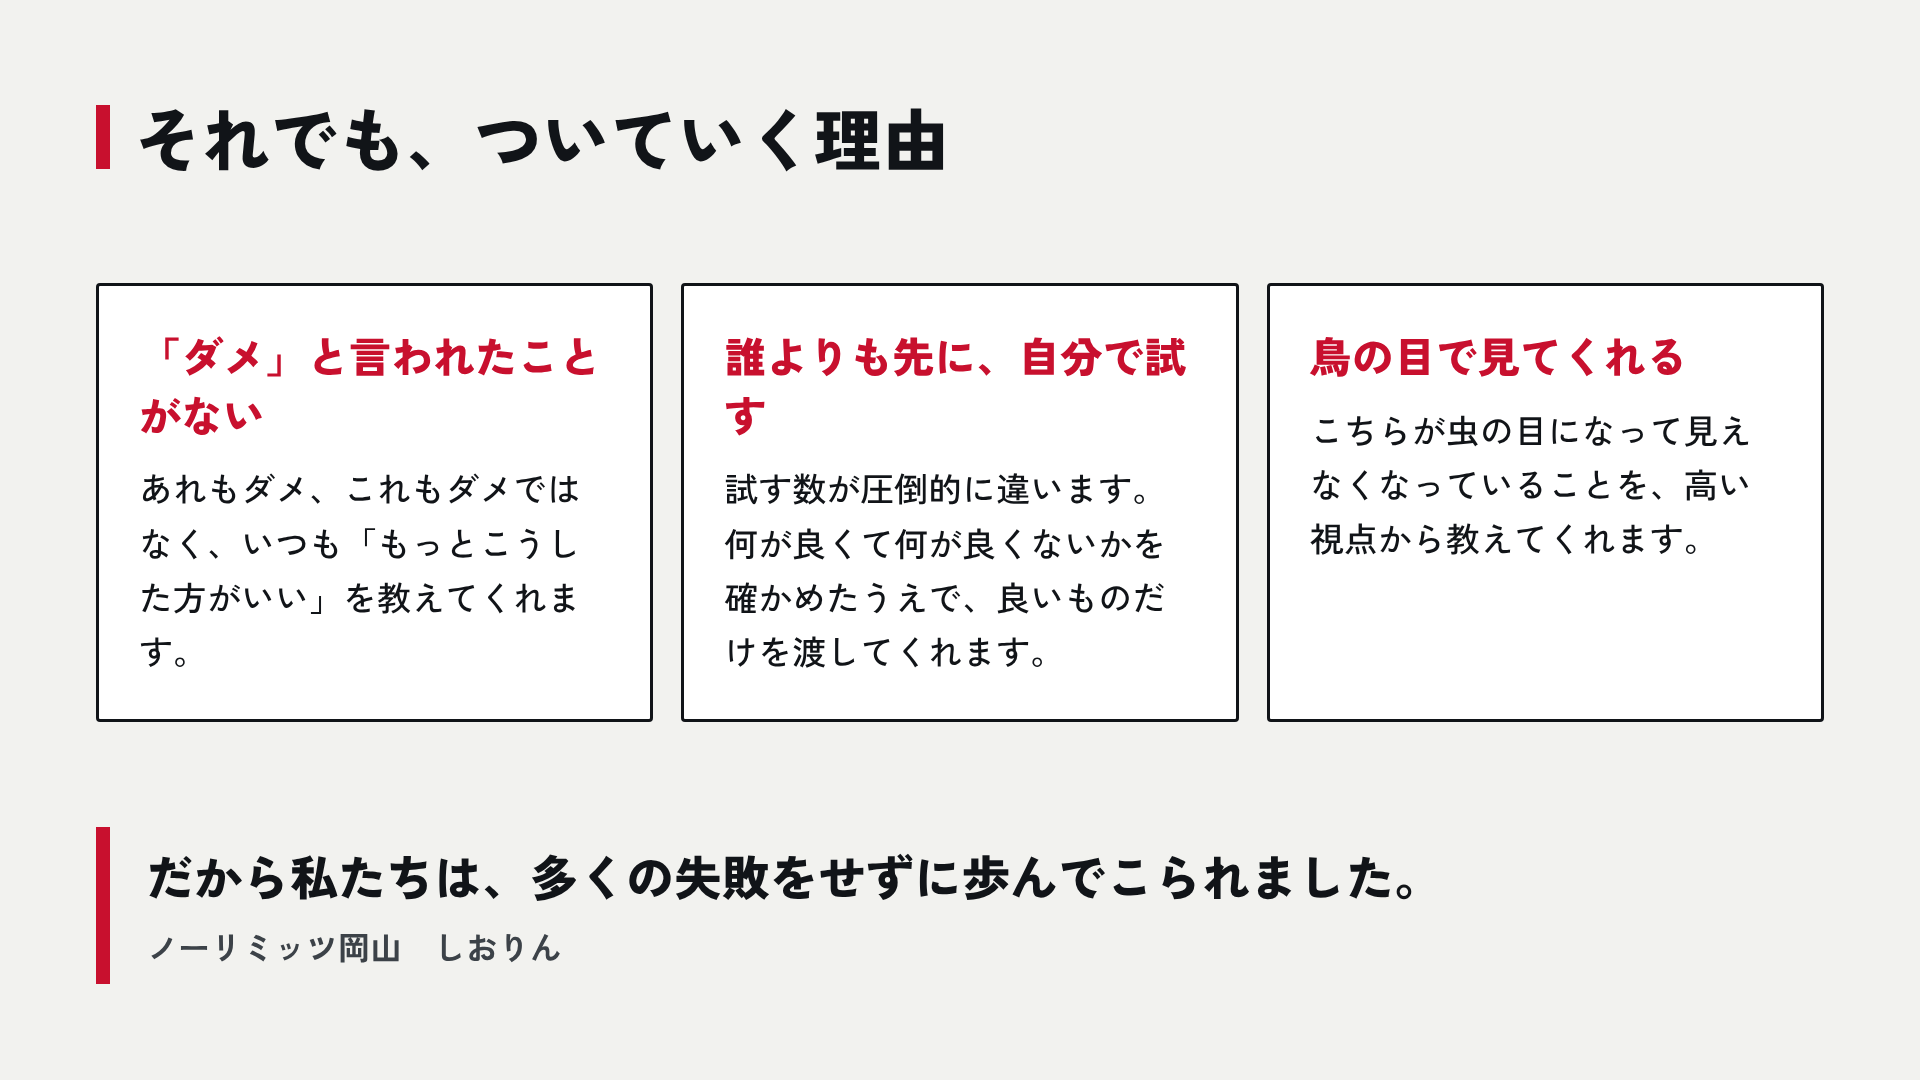
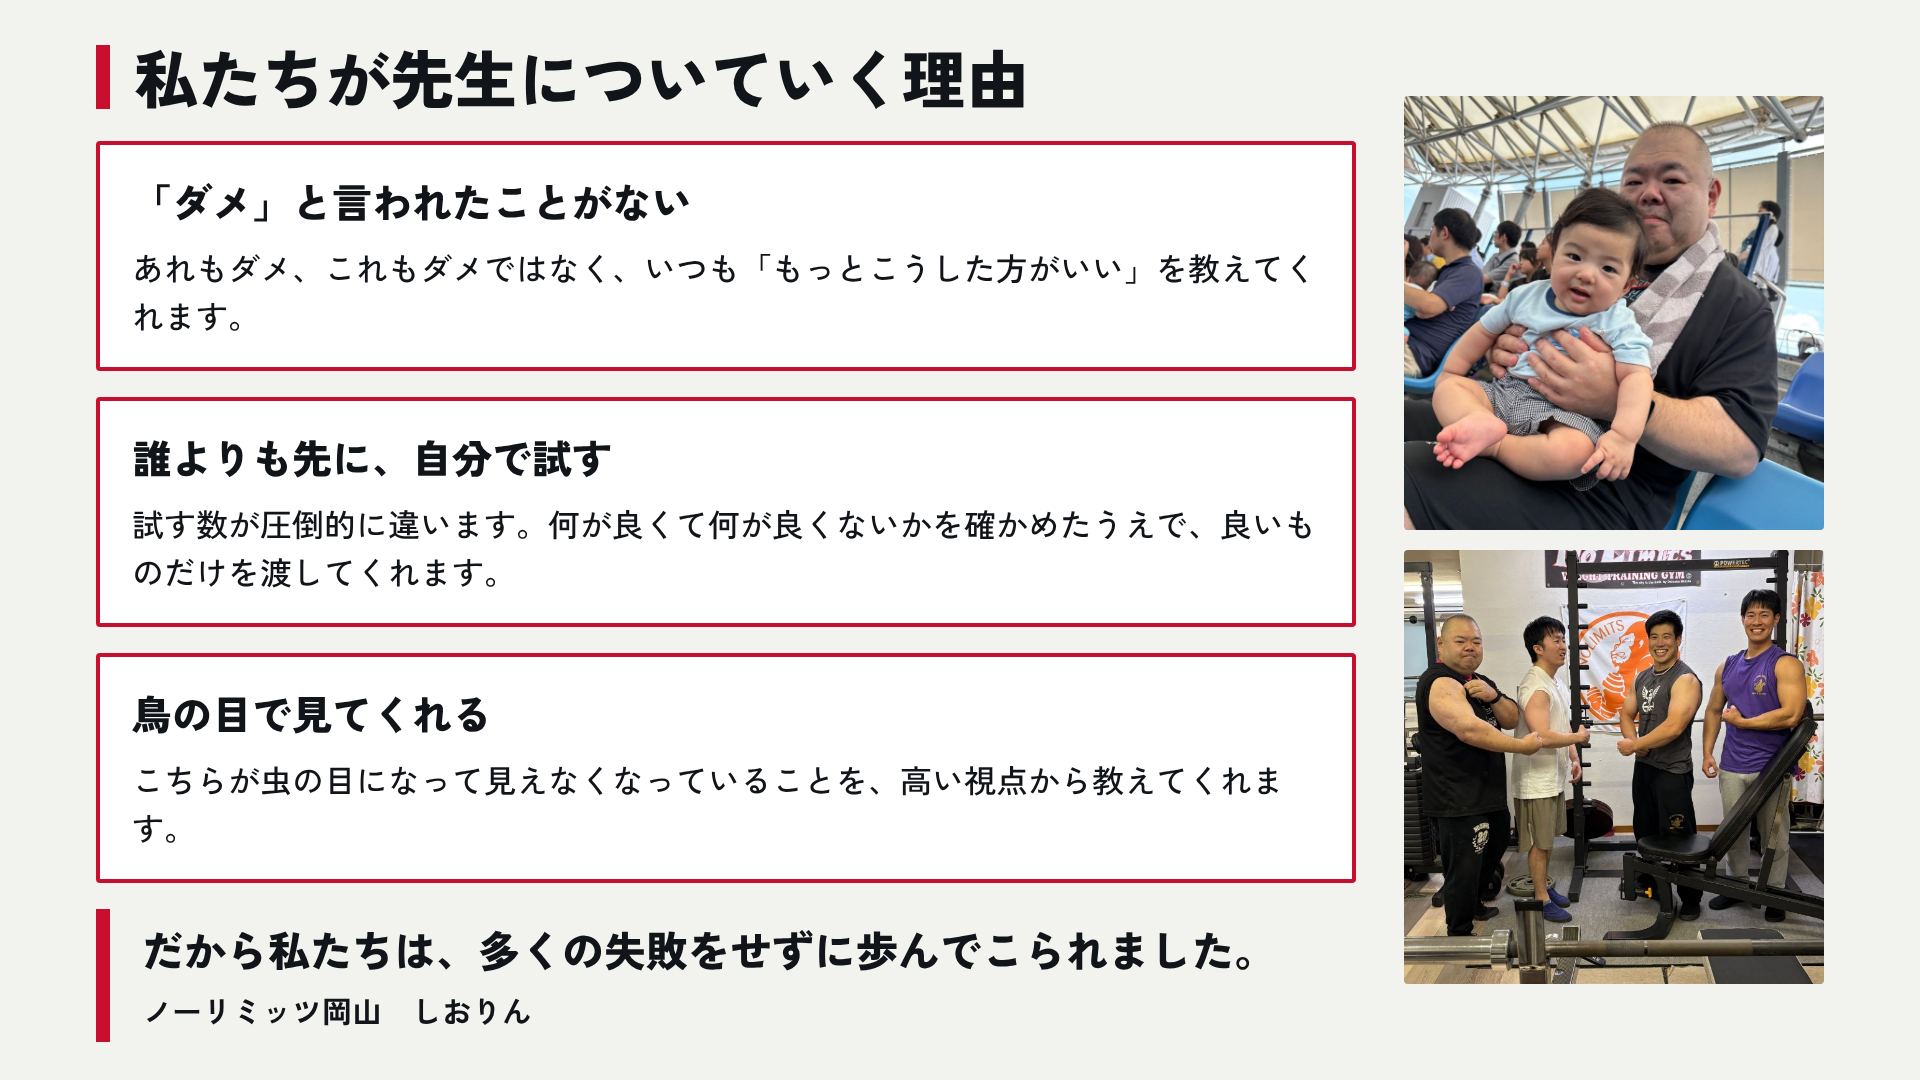
Put the real record on the instructor slide, and drop reversed-out red
The instructor slide now carries the four achievements from the gym's
own owner page instead of a vague caption about his arm, and ends by
saying the record is not why we follow him, which the next slide
answers. That slide is retitled to name who is speaking.

White text on solid red was as hard to read as the black背景 was, so
every red panel is now white with a red rule and black text. Red is
left as an outline and a heading colour only.

Owner's name corrected to 佐藤亮太.

Claude-Session: https://claude.ai/code/session_0169r95ZiBATNM4wyux34bk9

diff --git a/print/midote-png/README.md b/print/midote-png/README.md
@@ -5,8 +5,8 @@
 | ファイル | 内容 |
 | --- | --- |
 | `01-cover.png` | タイトル・日程・講師 |
-| `02-teacher.png` | 講師紹介（写真3点） |
-| `03-why.png` | 師事する理由（しおりんの言葉） |
+| `02-teacher.png` | 講師紹介・実績4点 |
+| `03-why.png` | 私たちが先生についていく理由 |
 | `04-content.png` | セミナーで扱うこと |
 | `05-price.png` | 料金・参加者特典 |
 | `06-apply.png` | 開催概要・申し込み |
@@ -18,6 +18,7 @@
 - 白地（`#FFFFFF` / `#F2F2EF`）に黒文字（`#111418`）。黒地は使わない
 - 補助文字も `#3C4248` までに留め、薄いグレーは使わない
 - 強調は赤 `#C8102E`、数字は濃い青 `#0B5FA5`。いずれも白地で6:1以上の明度差
+- 赤ベタに白抜き文字は使わない。強調箇所は白地＋赤枠＋黒文字で出す
 - 最小文字サイズ 30px、本文は34px以上。枠線は3px以上
 
 写真の元データは `assets/midote/`。
